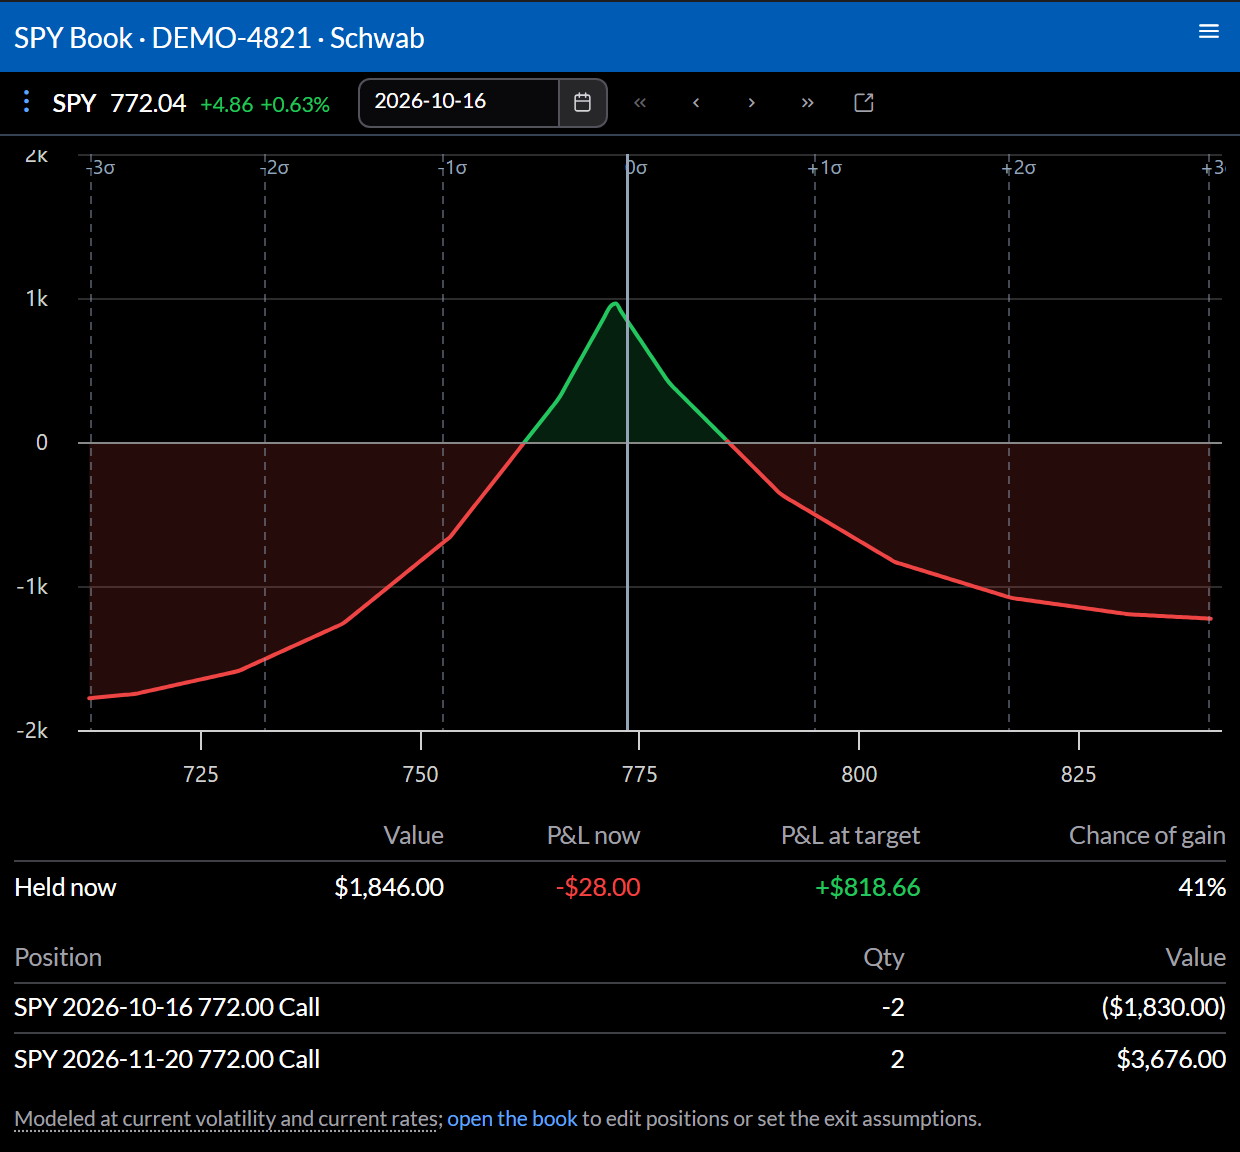
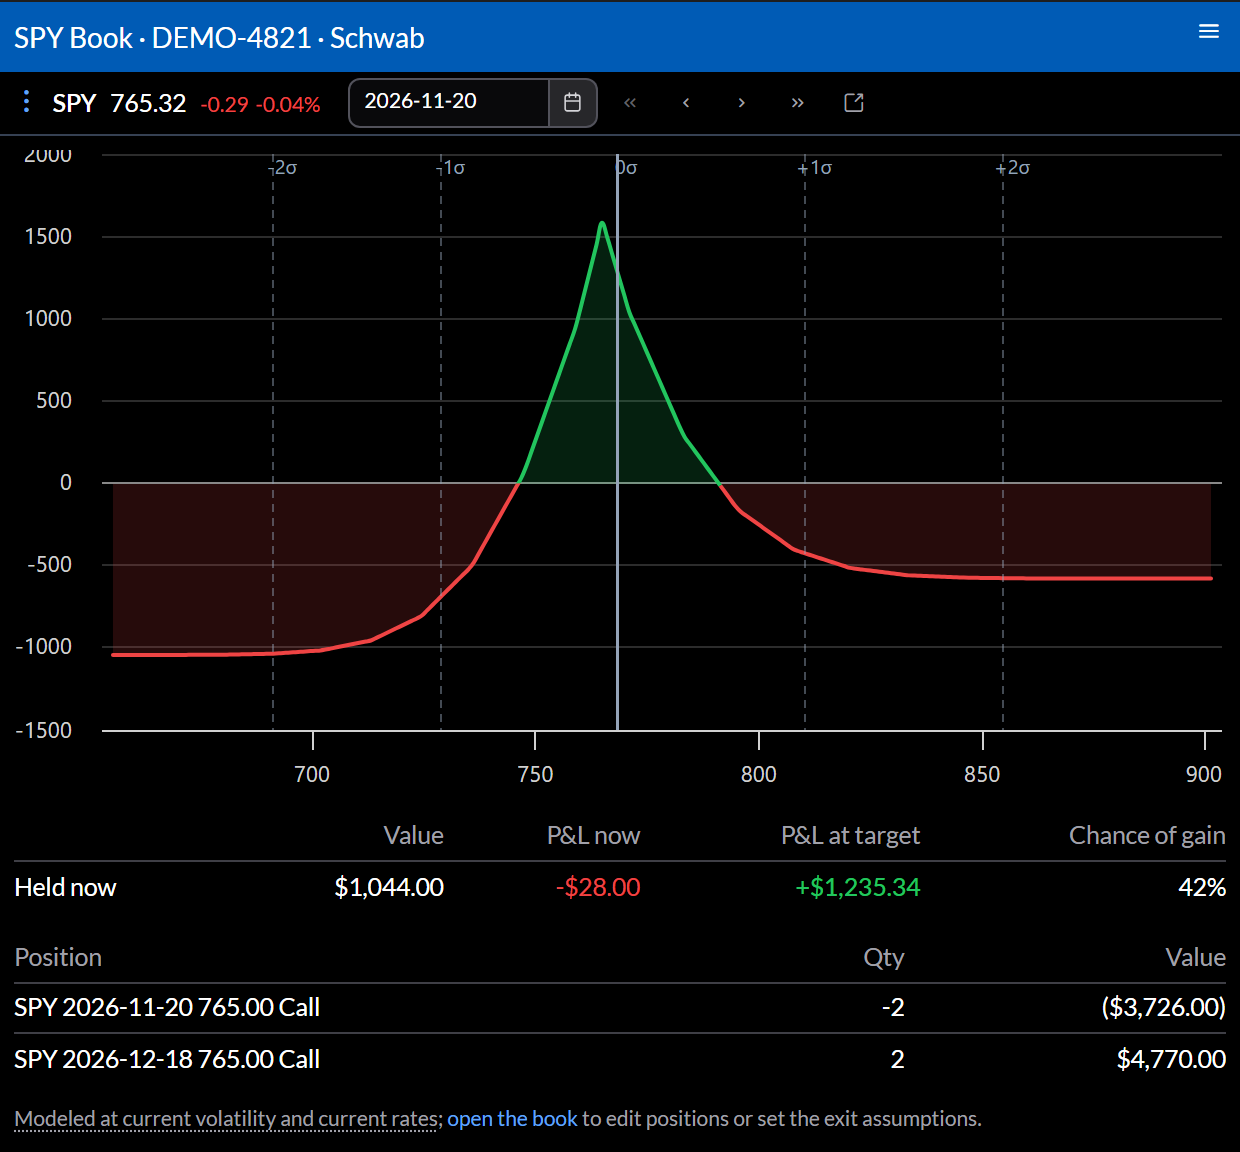
Price paths: Monte Carlo follows the term structure and charts each path
Monte Carlo now steps at the market's volatility for each stretch between key dates, like the price sweep, and the chart shows it as one point per path. The page explains Expected value, how held and pending books share the same paths, and how to read the scatter, with a new screenshot. The price sweep screenshots are refreshed.

diff --git a/explainers/price-paths.md b/explainers/price-paths.md
@@ -40,7 +40,7 @@ At the target date, shares are worth the path's final price, and contracts still
 
 The default. It draws a family of paths across the range of outcomes, from three standard deviations below the forward price to three above. Each path keeps the same place in the distribution on every date: the path that finishes two standard deviations high was two standard deviations high at each expiration on the way.
 
-That's what makes a curve possible. Each path ends at one price, so the book's value can be drawn against where the underlying finishes, which is the chart on the book page and the Book widget. Each path is weighted by how likely its final price is, and those weights give **Chance of gain**. The path in the middle, which finishes at the forward price, gives **Value at target**.
+That's what makes a curve possible. Each path ends at one price, so the book's value can be drawn against where the underlying finishes, which is the chart on the book page and the Book widget. Each path is weighted by how likely its final price is, and those weights give **Chance of gain**. The path in the middle, which finishes at the forward price, gives **Value at target**, and the Book widget's **P&L at target** is that value less what the book cost.
 
 How far a path has traveled by each date follows the market's own volatility to that date, read from the option chains. A week that holds an earnings report carries more of the move than a quiet week of the same length, so a path is in the right place at the expiration where a near contract settles.
 
@@ -50,11 +50,17 @@ What a sweep can't show is a path that changes direction: one that rallies throu
 
 ### Monte Carlo
 
-Random paths, each stepped from one key date to the next, so a path can rise into an expiration and fall after it. That's exactly the case a sweep leaves out. All paths count equally, and **Chance of gain** is the share of them that end above the book's value now.
+Random paths, 500 of them, each stepped from one key date to the next, so a path can rise into an expiration and fall after it. That's exactly the case a sweep leaves out. All paths count equally. **Expected value** is the average of the book's value across them, and it takes the place of **Value at target**, since no single random path stands for the middle; the Book widget's **P&L at target** follows it. **Chance of gain** is the share of paths that end above the book's value now.
 
-Random paths don't line up by final price, so they don't make a curve; the chart is drawn by the price sweep. Monte Carlo paths move at one volatility, the market's to the target date, rather than following the term structure.
+Each step moves at the market's volatility for that stretch between key dates, read from the same term structure the sweep follows, so a stretch that holds an earnings report moves more than a quiet one of the same length. Choosing Monte Carlo over the sweep changes only the shape of the paths, not how far the market expects the underlying to travel.
 
 Each step starts from where the path is, not from today's price, so a path that has fallen keeps moving from its lower price. The size of the next move, measured as a percentage, doesn't depend on which way the path went before.
+
+Random paths don't line up by final price, so the chart shows them as points rather than a curve: one point per path, at the price where it finished and the change in the book's value along it. Two paths can finish at the same price with different values, when one crossed a strike at an earlier expiration and the other didn't, and a curve would hide exactly that. When the book has pending changes, the book as held and the pending book are valued along the same paths, so each point for one sits directly above or below its partner for the other, and the gap between the two clouds is what the change does.
+
+{% include shot.html id="price-paths-monte-carlo-scatter" alt="The book page's chart with Price path set to Monte Carlo, for the SPY call calendar valued one week past the short call's expiration: below the strike the points trace a single curve, and above it they spread into a wide band of gains and losses at the same final price." caption="The same SPY calendar as below, on Monte Carlo, a week past the short call's expiration." %}
+
+Below the strike the points still trace one curve: both calls finish worth little whichever way the stock went, so the route doesn't matter. Above it they spread out. A path that ran up through the short call's expiration paid its intrinsic value there, and if the stock then fell back, the long call didn't earn it back: those are the losses. A path that was below the strike then let the short call expire worthless and kept all of the long call's later gain. Same final price, different outcome.
 
 {% include shot.html id="price-paths-monte-carlo" ext="svg" alt="Thirty Monte Carlo paths for the same stock, each stepping from today to the short call's expiration and then to the target. Five highlighted paths were clearly on one side of the strike when the short call expired and finish on the other." caption="The highlighted paths are the case a sweep can't draw: the short call settles on one side of the strike, and the stock finishes on the other." %}
 
@@ -73,7 +79,7 @@ Raising exit volatility makes the options you still hold worth more at the targe
 
 ## Reading the chart
 
-This SPY calendar spread is short a call in the front month and long the same strike a month later. Valued at the front month's expiration, the short call settles at the target itself, and the curve is the familiar tent around the strike:
+This SPY calendar spread is short a call in the front month and long the same strike a month later, shown with the price sweep. Valued at the front month's expiration, the short call settles at the target itself, and the curve is the familiar tent around the strike:
 
 {% include shot.html id="price-paths-at-front-expiration" alt="The Book widget for an SPY call calendar valued at the short call's expiration: the change in value peaks near the strike and falls away on either side." %}
 
